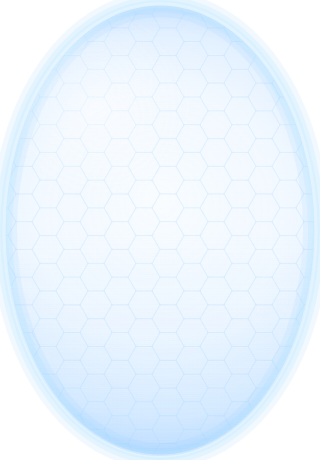
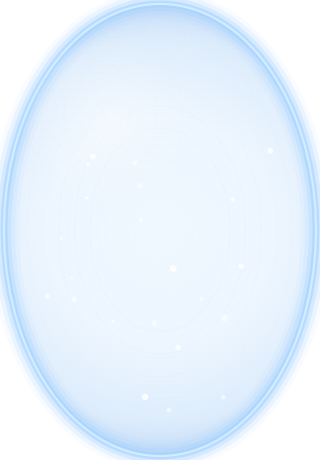
fix(view): TileSlot 8px ContentMargin so CardView keeps 2:3 aspect instead of stretching to 208x304; ward shield alpha 0.30; new barrier PNG

diff --git a/src/View/CardView.cs b/src/View/CardView.cs
@@ -116,12 +116,14 @@ public partial class CardView : PanelContainer
         _innerRoot.AddChild(_diamondHp);
 
         // Layer 3a: shield overlays — semi-transparent PNGs covering the card art area.
+        // Ward PNG is opaque-ish by design; dim it heavily via Modulate so it reads as a subtle aura.
         _shieldWard = MakeOverlayRect();
         AnchorBox(_shieldWard, 0, 30, 360, 510);       // 360×480 centered with 30 src margin top/bottom
+        _shieldWard.Modulate = new Color(1f, 1f, 1f, 0.30f);
         _innerRoot.AddChild(_shieldWard);
 
         _shieldBarrier = MakeOverlayRect();
-        AnchorBox(_shieldBarrier, 20, 40, 340, 500);   // 320×460 centered
+        AnchorBox(_shieldBarrier, 20, 40, 340, 500);   // 320×460 centered (user-supplied alpha kept as-is)
         _innerRoot.AddChild(_shieldBarrier);
 
         // Layer 3b: attack-ready icon (storm = can attack hero+minion, rush = minion-only).

diff --git a/src/View/TileSlotView.cs b/src/View/TileSlotView.cs
@@ -42,6 +42,9 @@ public partial class TileSlotView : PanelContainer
             BorderWidthLeft = IsTerrain ? 2 : 1,
             BorderWidthRight = IsTerrain ? 2 : 1,
             CornerRadiusTopLeft = 4, CornerRadiusTopRight = 4, CornerRadiusBottomLeft = 4, CornerRadiusBottomRight = 4,
+            // Content margin = the 8px padding around the card. Without this, PanelContainer would
+            // stretch CardView to the full 208×304 tile size, distorting the 2:3 frame aspect.
+            ContentMarginLeft = 8, ContentMarginRight = 8, ContentMarginTop = 8, ContentMarginBottom = 8,
         };
         AddThemeStyleboxOverride("panel", _sb);
     }
